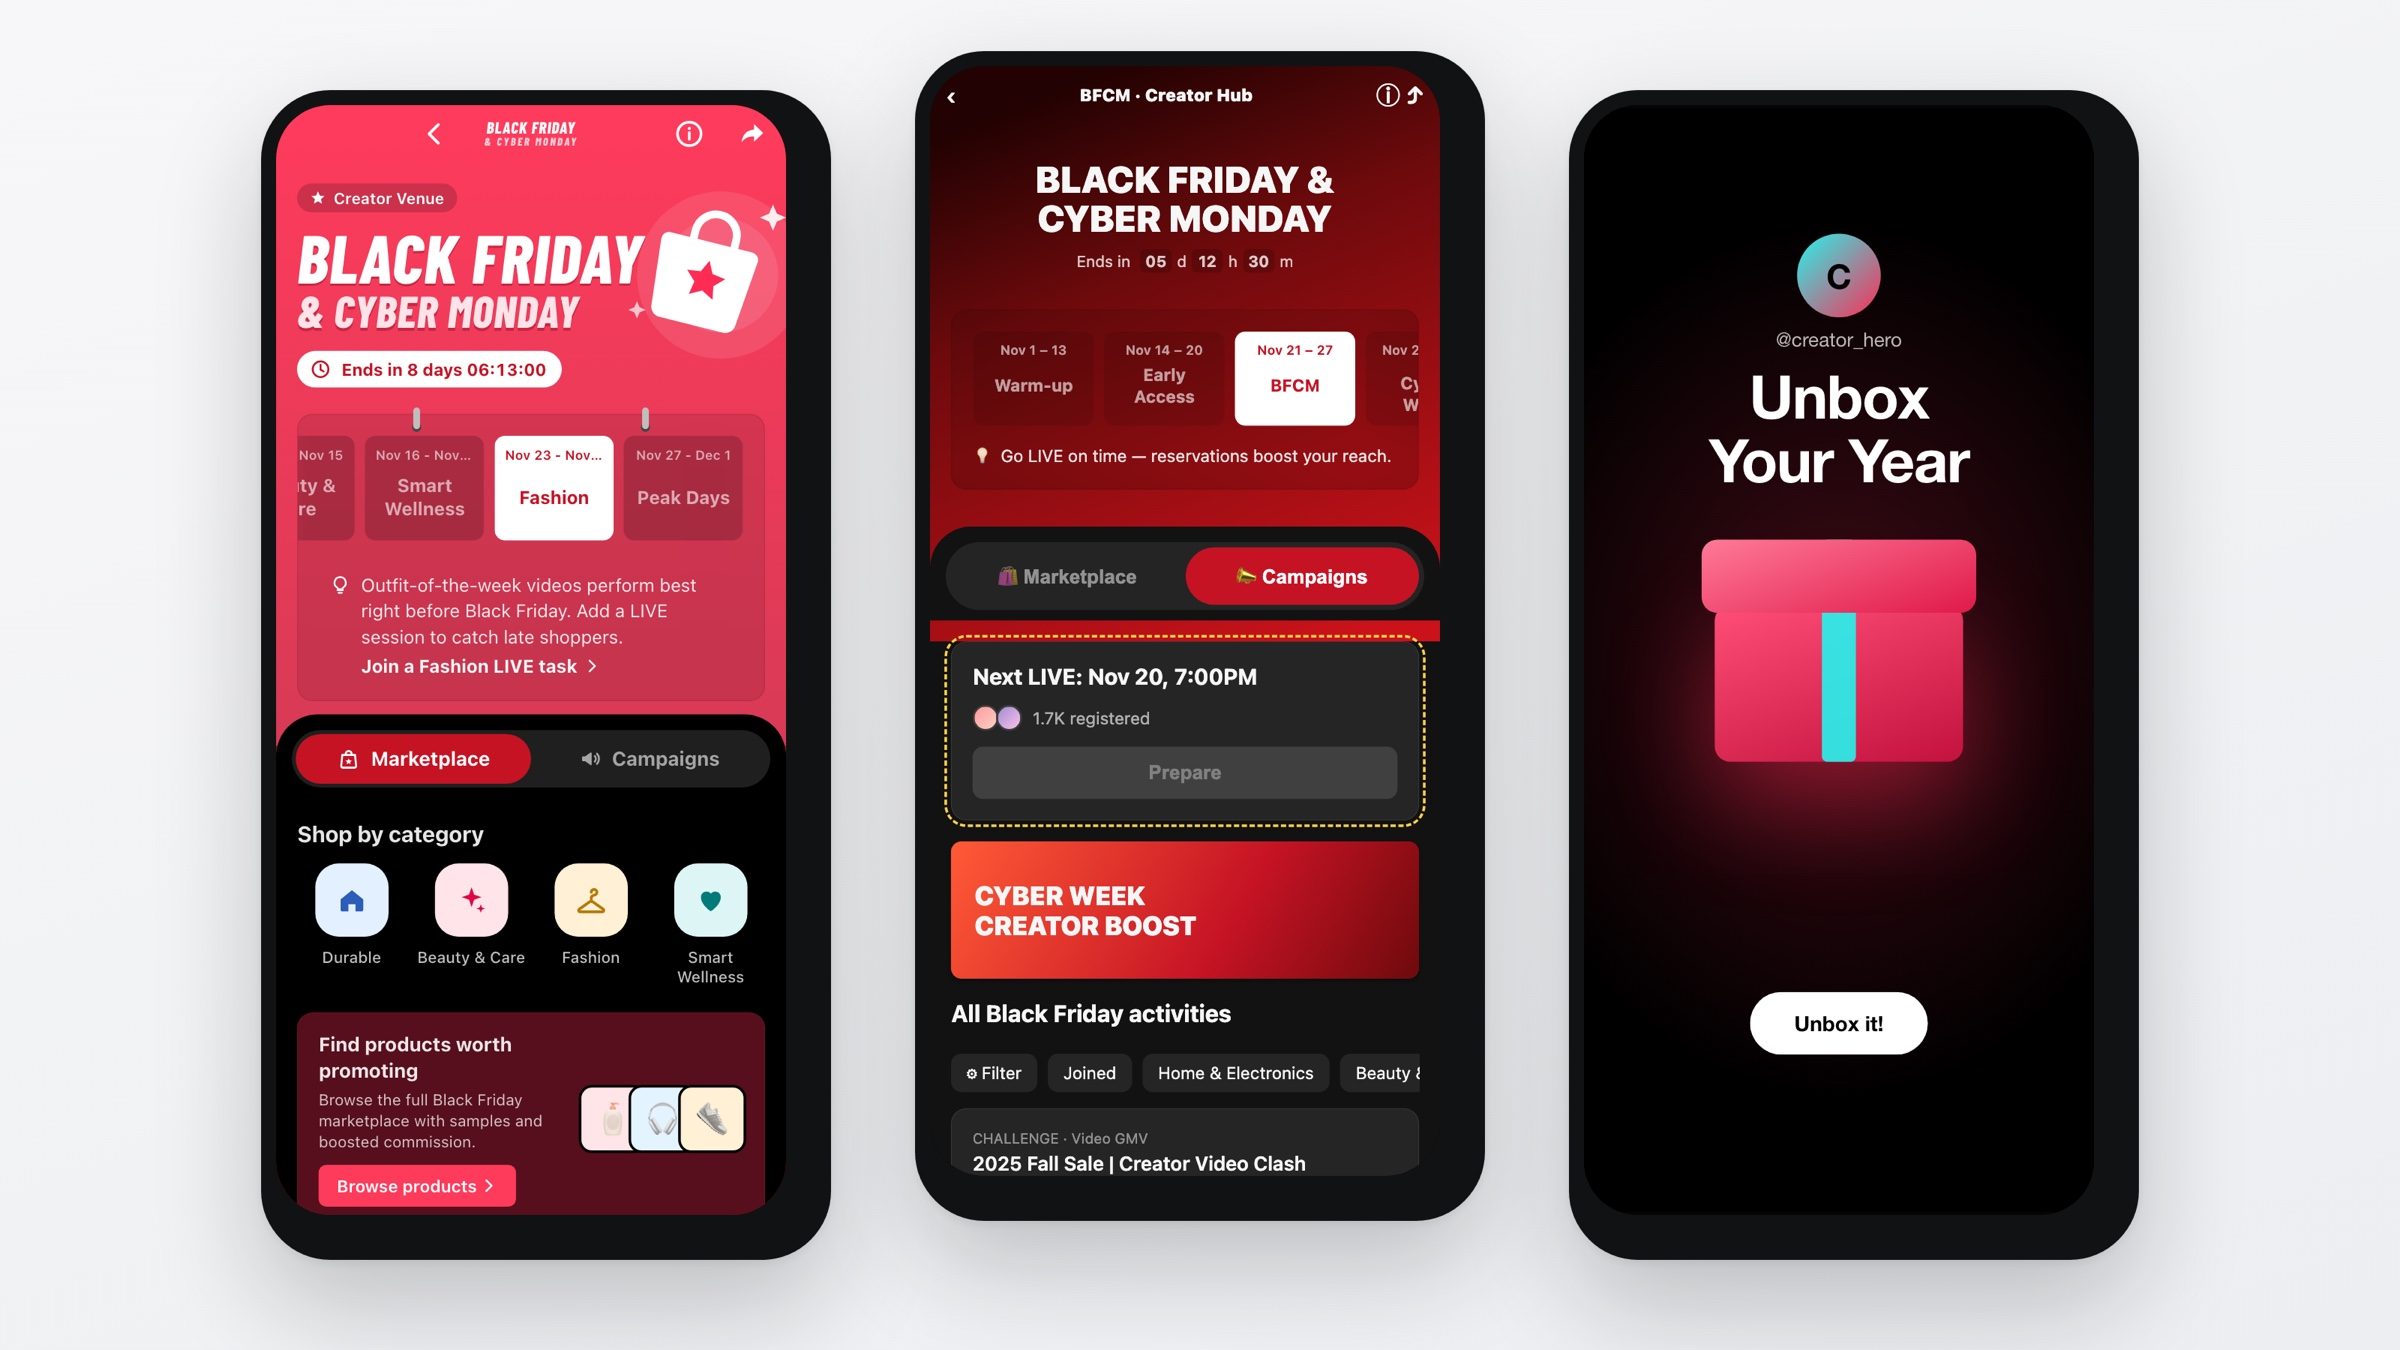
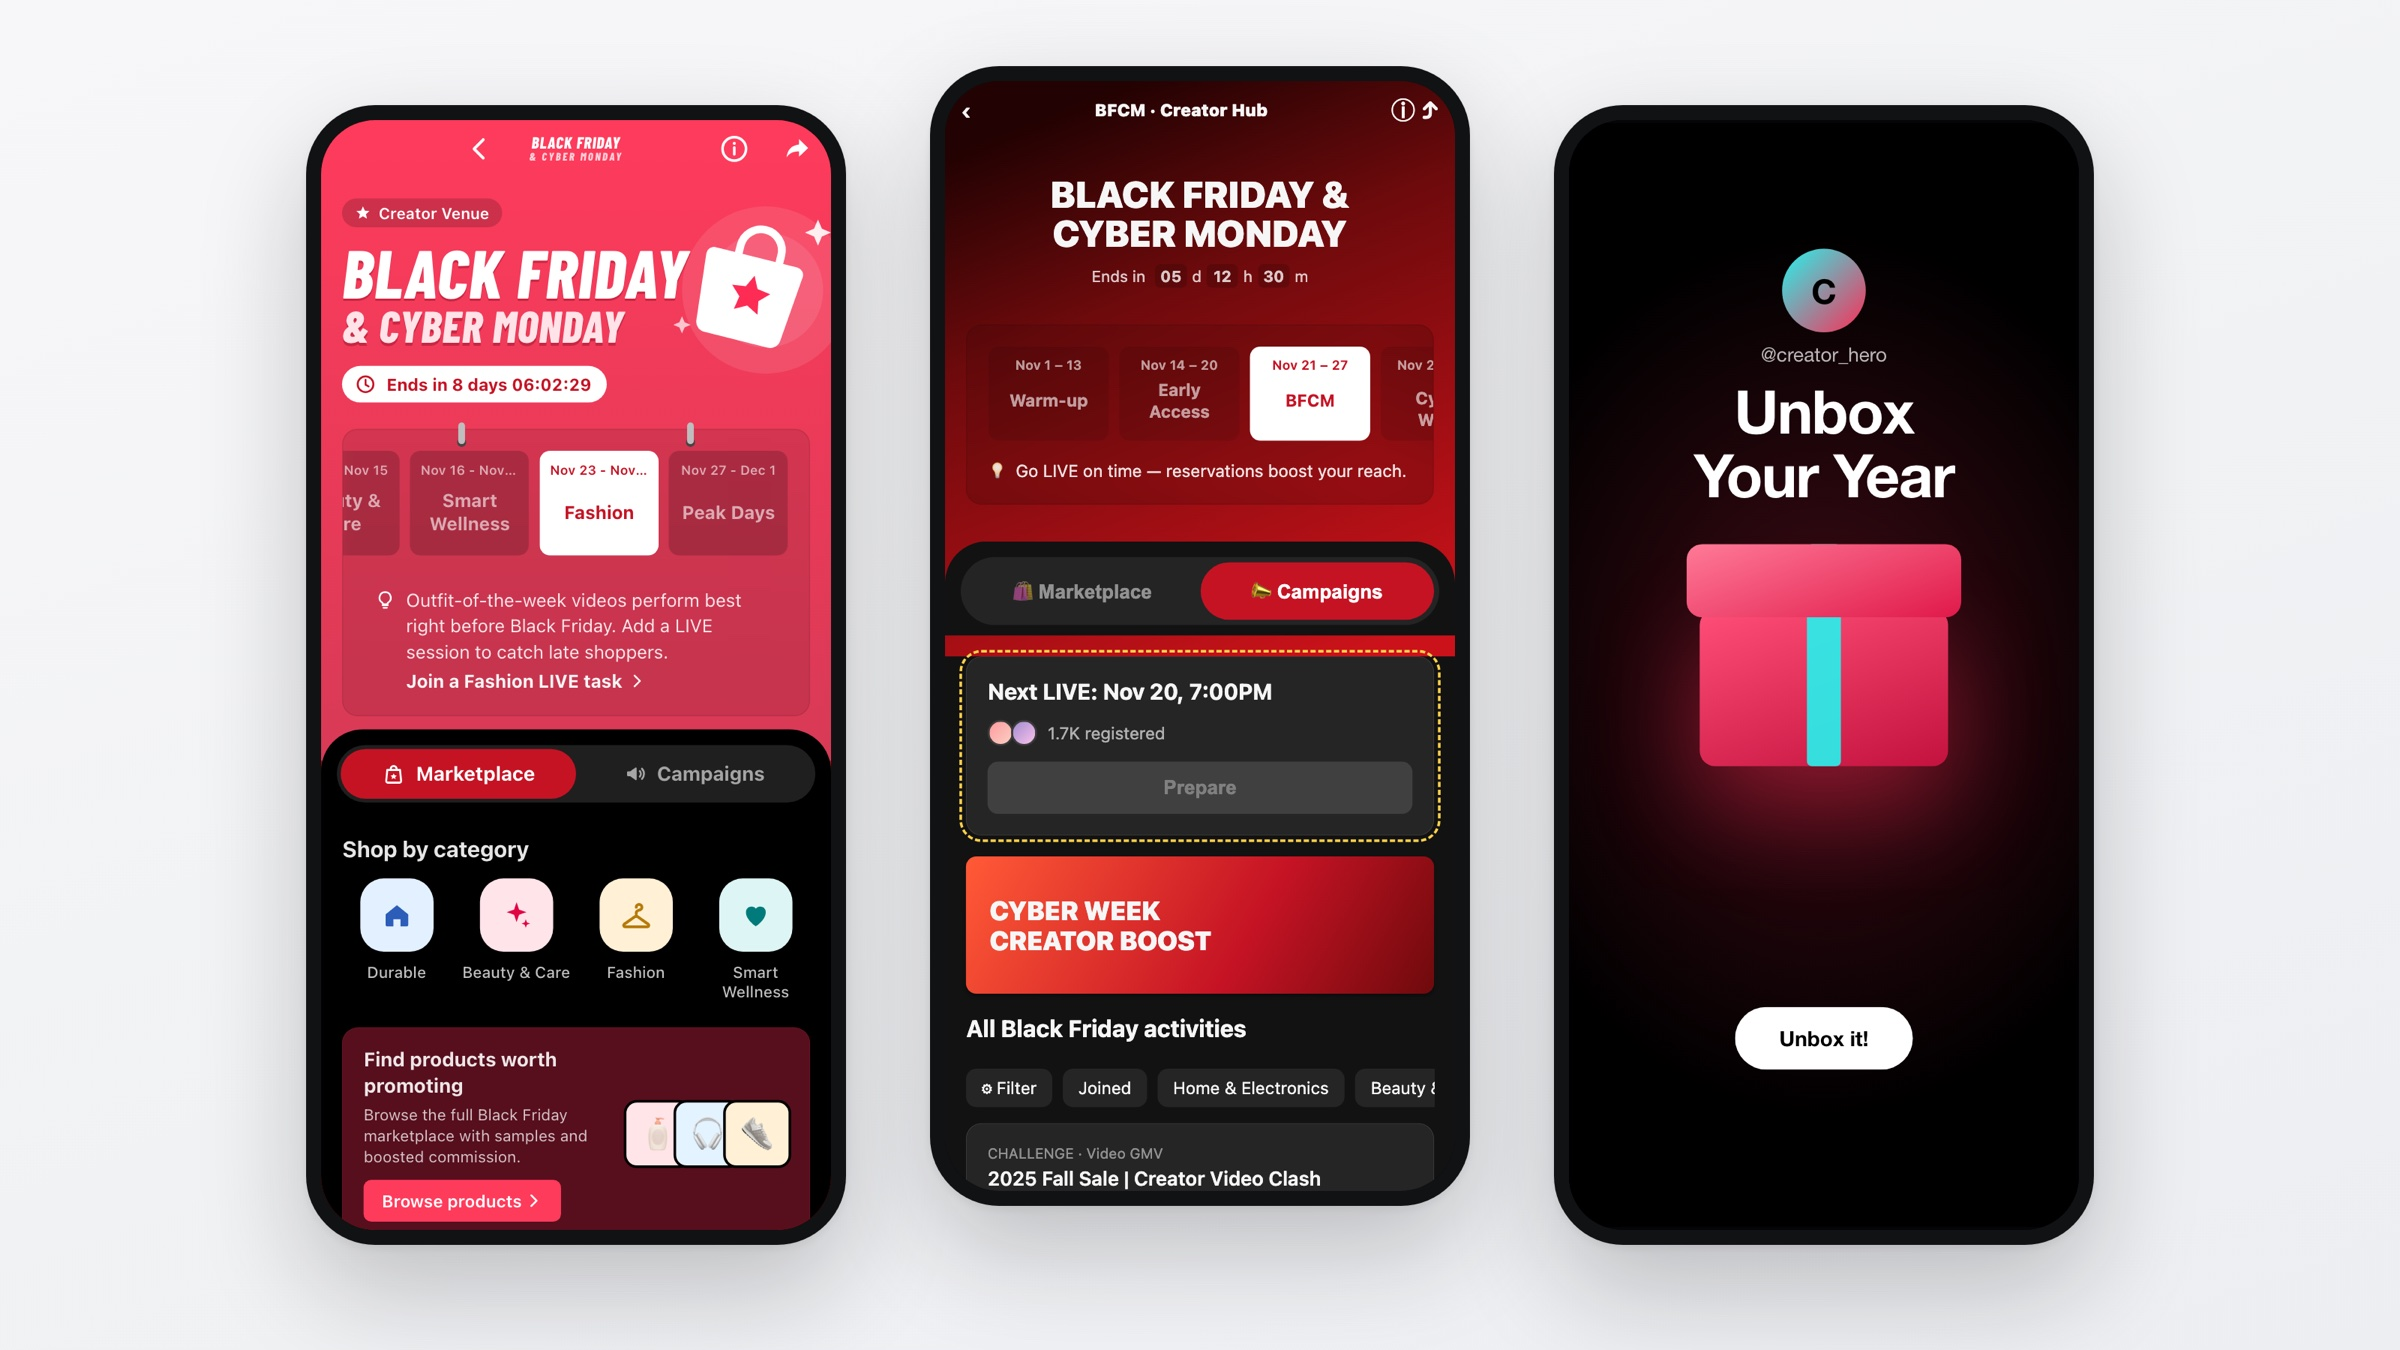
Center screens in TikTok cover phones

diff --git a/index.html b/index.html
@@ -29,10 +29,10 @@
           <a class="ring-card" href="codeagent.html"><img src="assets/prototype-login.png" alt="Login prototype"><span>Workspace entry ↗</span></a>
           <a class="ring-card" href="badge.html"><img src="assets/work/badge.jpg" alt="Attention badge"><span>One red dot ↗</span></a>
           <a class="ring-card" href="flowcanvas.html"><img src="assets/flowcanvas-routing.png?v=2" alt="Port routing"><span>Port model ↗</span></a>
-          <a class="ring-card" href="tiktok.html"><img src="assets/work/tiktok-bfcm-cover.jpg" alt="BFCM creator screens"><span>TikTok Shop BFCM ↗</span></a>
+          <a class="ring-card" href="tiktok.html"><img src="assets/work/tiktok-bfcm-cover.jpg?v=2" alt="BFCM creator screens"><span>TikTok Shop BFCM ↗</span></a>
           <a class="ring-card" href="codeagent.html"><img src="assets/prototype-hifi.png" alt="Dashboard prototype"><span>CodeAgent hi-fi ↗</span></a>
           <a class="ring-card tall" href="flowcanvas.html"><img src="assets/flowcanvas-property-panel.png" alt="FlowCanvas"><span>FlowCanvas ↗</span></a>
-          <a class="ring-card" href="tiktok.html"><img src="assets/work/tiktok-bfcm-cover.jpg" alt="Unbox Your Year" style="object-position:right center"><span>Unbox Your Year ↗</span></a>
+          <a class="ring-card" href="tiktok.html"><img src="assets/work/tiktok-bfcm-cover.jpg?v=2" alt="Unbox Your Year" style="object-position:right center"><span>Unbox Your Year ↗</span></a>
           <a class="ring-card" href="codeagent.html"><img src="assets/prototype-inbox.png" alt="Inbox prototype"><span>Inbox triage ↗</span></a>
           <a class="ring-card" href="codeagent.html"><img src="assets/wf/10-product-fusion_01-fused-workbench.jpg" alt="Fused workbench wireframe"><span>Fused workbench ↗</span></a>
         </div>
@@ -56,7 +56,7 @@
       <h2 class="work-head">Selected work <span>Problem → decision → trade-off → result</span></h2>
       <div class="case-cards">
         <a class="case-card featured reveal" href="tiktok.html">
-          <div class="img"><img src="assets/work/tiktok-bfcm-cover.jpg" alt="Three rebuilt TikTok Shop creator screens for BFCM"></div>
+          <div class="img"><img src="assets/work/tiktok-bfcm-cover.jpg?v=2" alt="Three rebuilt TikTok Shop creator screens for BFCM"></div>
           <div class="cc-body">
             <small>01 · TIKTOK SHOP · CREATOR COMMERCE</small>
             <h3>The right campaign, for every creator</h3>

diff --git a/tiktok.html b/tiktok.html
@@ -35,7 +35,7 @@
       </dl>
       <dl class="tldr"><div><dt>PROBLEM</dt><dd>One banner showed every creator the same campaign, in every region.</dd></div><div><dt>DECISION</dt><dd>Target by segment and region, show visible pagination, and define a fallback for every field.</dd></div><div><dt>TRADE-OFF</dt><dd>Later slides get less exposure; a missing translation falls back to English.</dd></div><div><dt>RESULT</dt><dd>~25% higher banner click-through. Across related multi-region releases, ~40% fewer integration defects.</dd></div></dl>
       <a class="pill-link try-proto" href="#prototype">Try the interactive prototypes <i>↓</i></a>
-      <figure class="cs-cover"><img src="assets/work/tiktok-bfcm-cover.jpg" alt="Three rebuilt TikTok Shop creator screens: the BFCM creator venue, the Go-LIVE reminder card, and Unbox Your Year"></figure>
+      <figure class="cs-cover"><img src="assets/work/tiktok-bfcm-cover.jpg?v=2" alt="Three rebuilt TikTok Shop creator screens: the BFCM creator venue, the Go-LIVE reminder card, and Unbox Your Year"></figure>
     </section>
 
     <div class="cs-layout shell">
